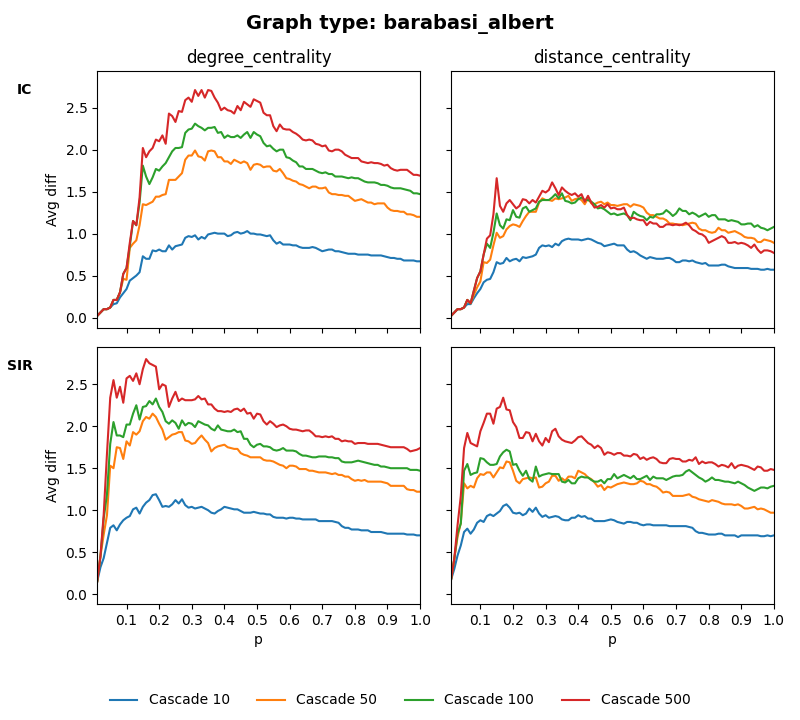
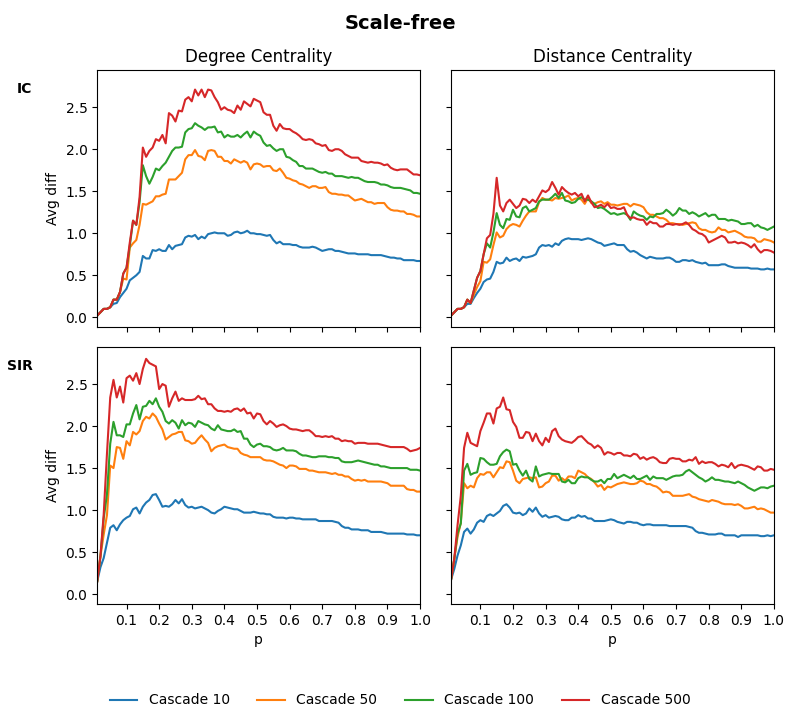
improve display titles for networks and centrality

diff --git a/src/patient_zero/experiments/plots.py b/src/patient_zero/experiments/plots.py
@@ -1,7 +1,7 @@
 from pathlib import Path
 import matplotlib.pyplot as plt
 import pandas as pd
-from matplotlib.ticker import FormatStrFormatter
+from patient_zero.experiments.utils import get_network_title, get_centrality_title
 
 DATA_DIR = Path(__file__).resolve().parent
 CSV_FILE = DATA_DIR / "results.csv"
@@ -23,12 +23,12 @@ for graph_type in graph_types:
     df_graph = grouped[grouped["graph_type"] == graph_type]
 
     fig, axes = plt.subplots(
-        nrows=len(MODELS),           # now rows = models
-        ncols=len(CENTRALITY_MEASURES),  # columns = centrality
+        nrows=len(MODELS),
+        ncols=len(CENTRALITY_MEASURES),
         figsize=(4 * len(CENTRALITY_MEASURES), 3.6 * len(MODELS)),
         sharex=True,
         sharey=True,
-        squeeze=False,  # keeps axes 2D
+        squeeze=False,
     )
 
     for row, model in enumerate(MODELS):
@@ -45,7 +45,7 @@ for graph_type in graph_types:
                 ax.plot(s["r_infect"], s["avg_diff"], label=f"Cascade {cascade_size}")
 
             if row == 0:
-                ax.set_title(centrality)
+                ax.set_title(get_centrality_title(centrality))
             if col == 0:
                 ax.set_ylabel("Avg diff", rotation=90)
                 ax.text(-0.2, 0.90, model, rotation=0, ha="right", va="bottom", transform=ax.transAxes, fontweight="bold")
@@ -58,6 +58,6 @@ for graph_type in graph_types:
     handles, labels = axes[0, 0].get_legend_handles_labels()
     fig.legend(handles, labels, loc="lower center", ncol=len(handles), frameon=False)
 
-    fig.suptitle(f"Graph type: {graph_type}", fontsize=14, weight="bold")
+    fig.suptitle(get_network_title(graph_type), fontsize=14, weight="bold")
     plt.tight_layout(rect=[0, 0.08, 1, 1])
     plt.savefig(f"{DATA_DIR}/plots/{graph_type}")

diff --git a/src/patient_zero/experiments/utils.py b/src/patient_zero/experiments/utils.py
@@ -1,5 +1,6 @@
 import pickle
 import networkx as nx
+from patient_zero.enums import CentralityMeasure, NetworkType
 
 def pkl_to_cascade(path):
     """
@@ -33,8 +34,14 @@ def pkl_to_cascade(path):
 
     return cascades
 
-def main():
-    pkl_to_cascade("src/patient_zero/experiments/simulations/k_regular/IC/k_regular_IC_cascade100.pkl")
+def get_centrality_title(key):
+    if key == CentralityMeasure.DEGREE.value: return "Degree Centrality"
+    elif key == CentralityMeasure.DISTANCE.value: return "Distance Centrality"
+    elif key == CentralityMeasure.RUMOR.value: return "Rumor Centrality"
 
-if __name__ == "__main__":
-    main()
+def get_network_title(key):
+    if key == NetworkType.REGULAR.value: return "K-Regular"
+    elif key == NetworkType.RANDOM.value: return "Random"
+    elif key == NetworkType.SCALE_FREE.value: return "Scale-free"
+    elif key == NetworkType.SMALL_WORLD.value: return "Small World"
+    elif key == NetworkType.TREE.value: return "Balanced Tree"

diff --git a/src/patient_zero/experiments/__init__.py b/src/patient_zero/experiments/__init__.py
@@ -1,5 +1,12 @@
 
-from .utils import pkl_to_cascade
+from .utils import pkl_to_cascade, get_network_title, get_centrality_title
 from .centrality import degree_centrality, eigenvector_centrality, distance_centrality
 
-__all__ = ["pkl_to_cascade", "degree_centrality", "eigenvector_centrality", "distance_centrality"]
+__all__ = [
+    "pkl_to_cascade", 
+    "get_network_title", 
+    "get_centrality_title", 
+    "degree_centrality", 
+    "eigenvector_centrality", 
+    "distance_centrality"
+    ]

diff --git a/src/patient_zero/experiments/experiments.py b/src/patient_zero/experiments/experiments.py
@@ -63,7 +63,7 @@ def main():
             df = pd.DataFrame(data=result)
             with lock:
                 if not header_written:
-                    df.to_csv(OUTPUT_FILE, index=False, mode='w', columns=[**result[0].keys(), "r_recover"])
+                    df.to_csv(OUTPUT_FILE, index=False, mode='w', columns=result[0].keys())
                     header_written = True
                 else:
                     df.to_csv(OUTPUT_FILE, index=False, mode='a', header=False)

diff --git a/src/patient_zero/enums.py b/src/patient_zero/enums.py
@@ -10,3 +10,8 @@ class NetworkType(Enum):
 class ModelType(Enum):
     IC = "IC"
     SIR = "SIR"
+
+class CentralityMeasure(Enum):
+    DEGREE = "degree_centrality"
+    DISTANCE = "distance_centrality"
+    RUMOR = "rumor_centrality"
